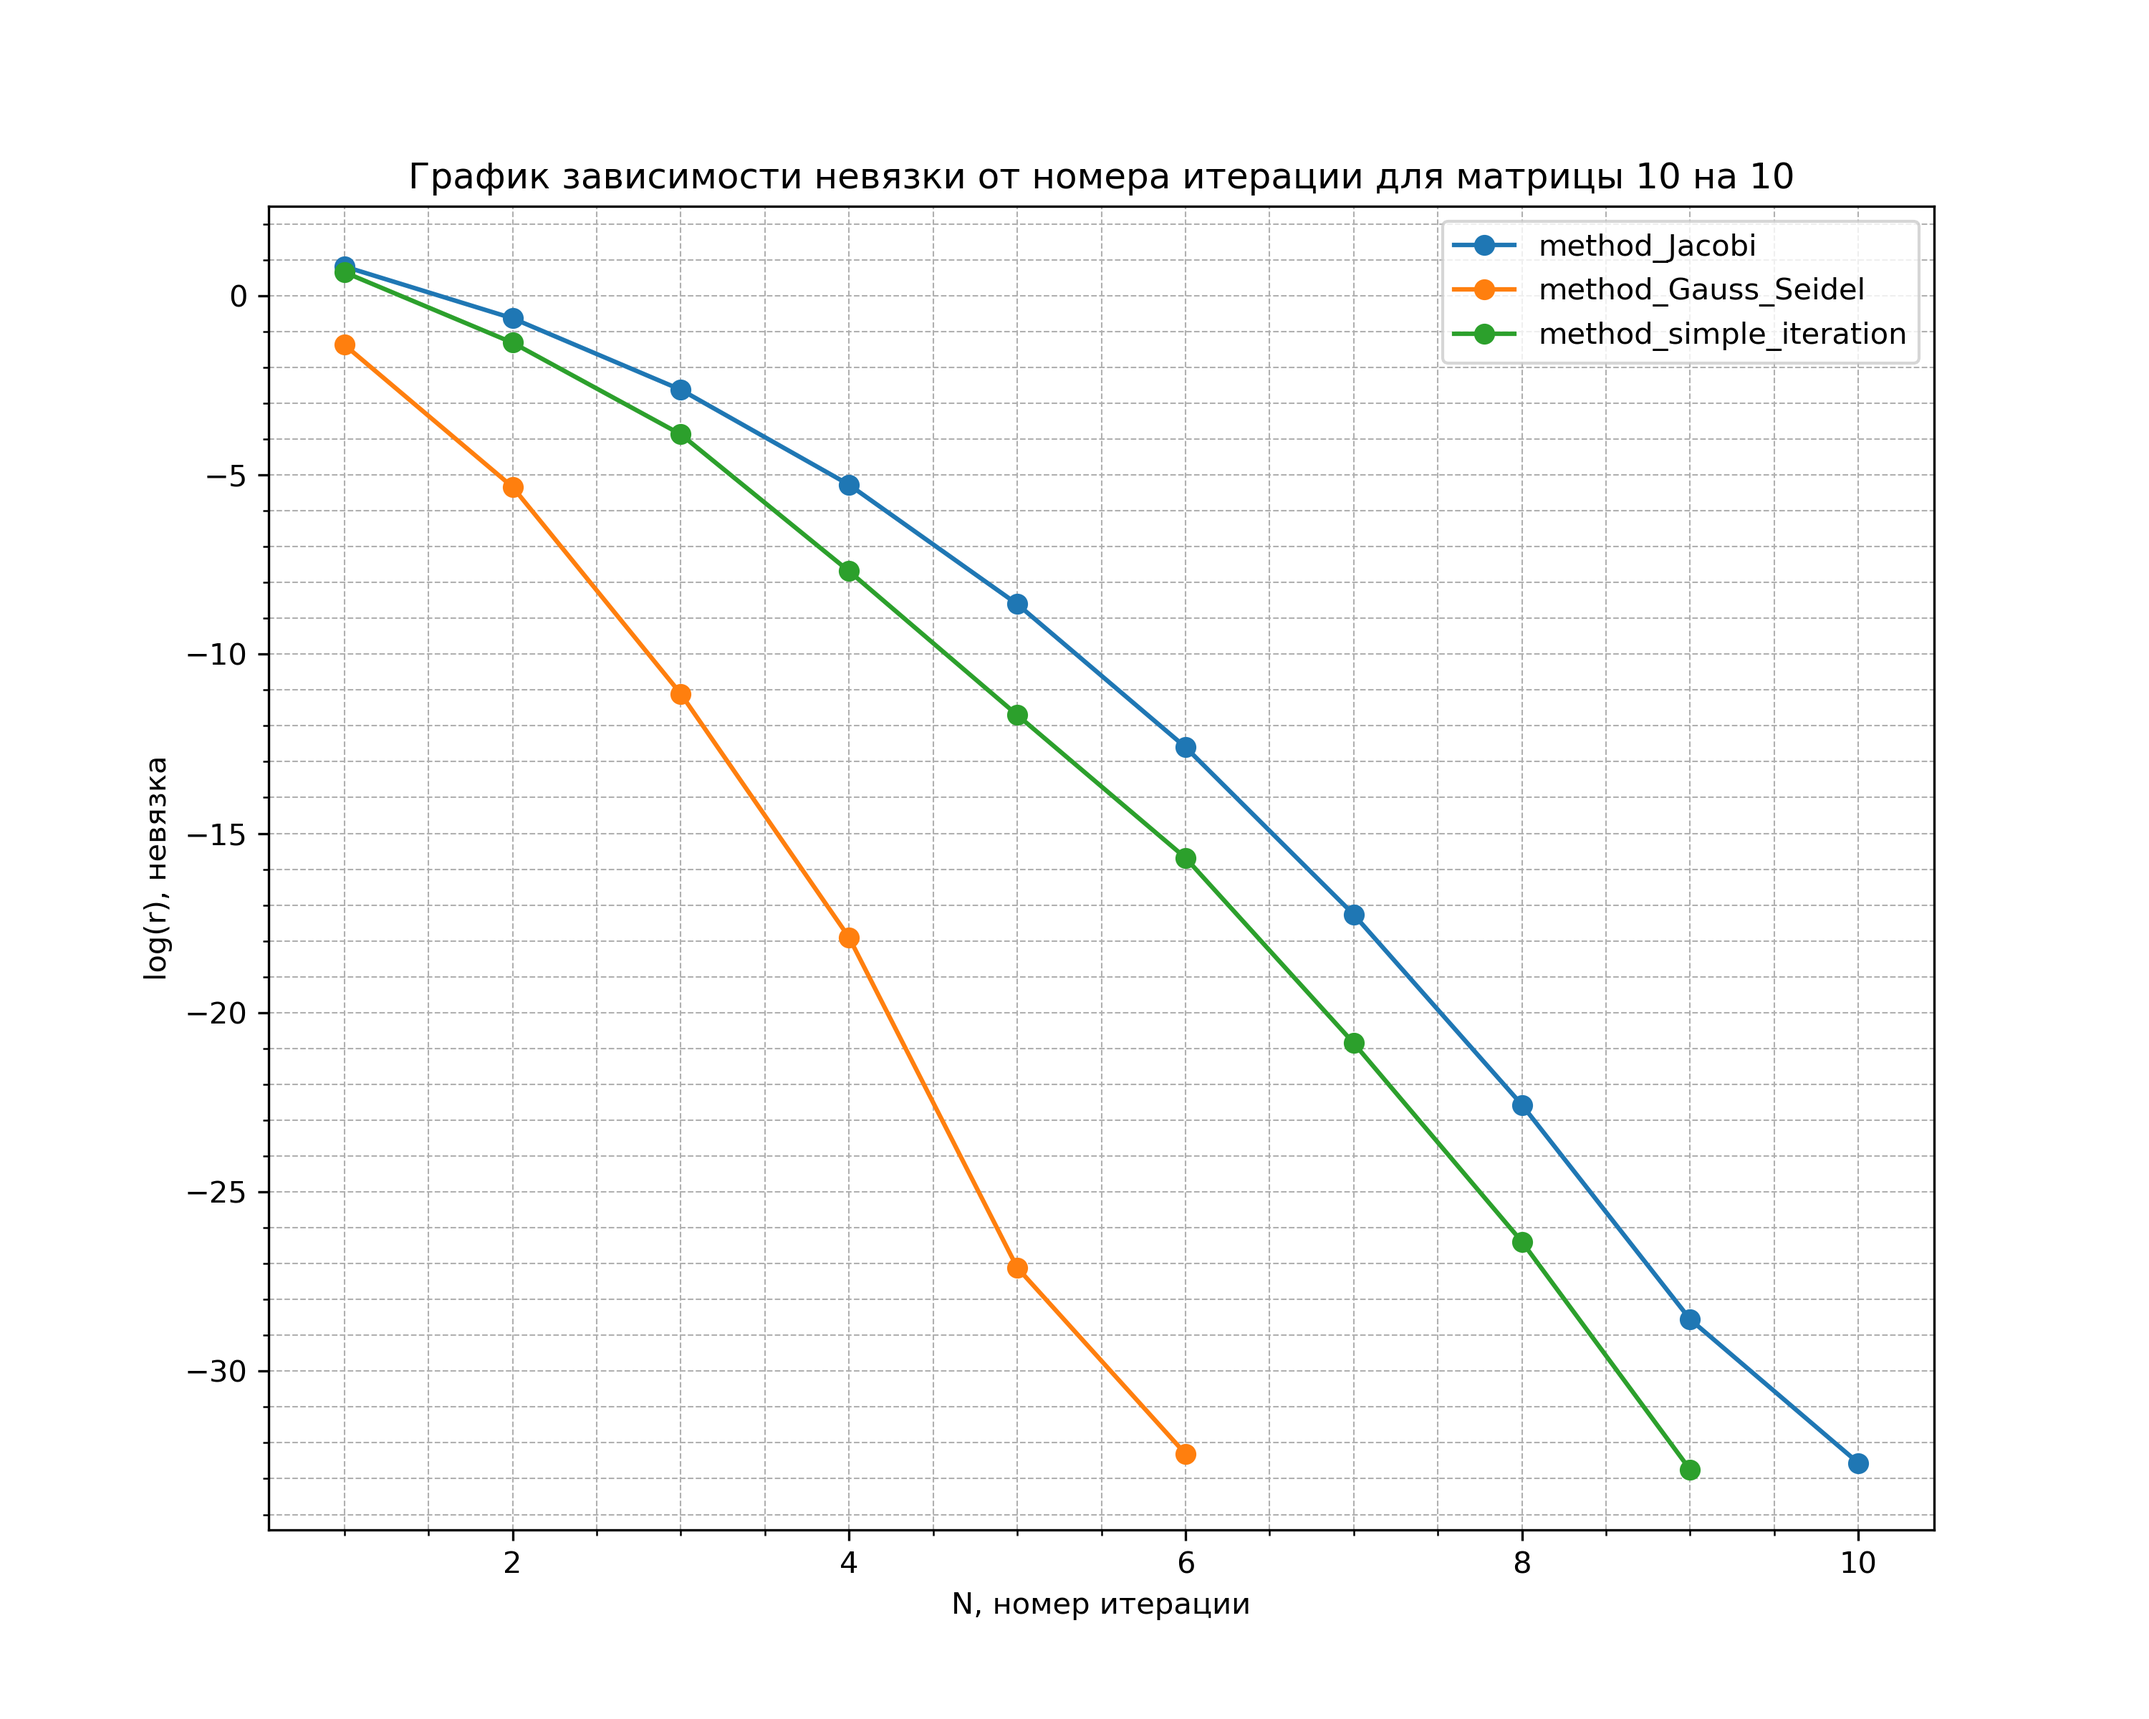
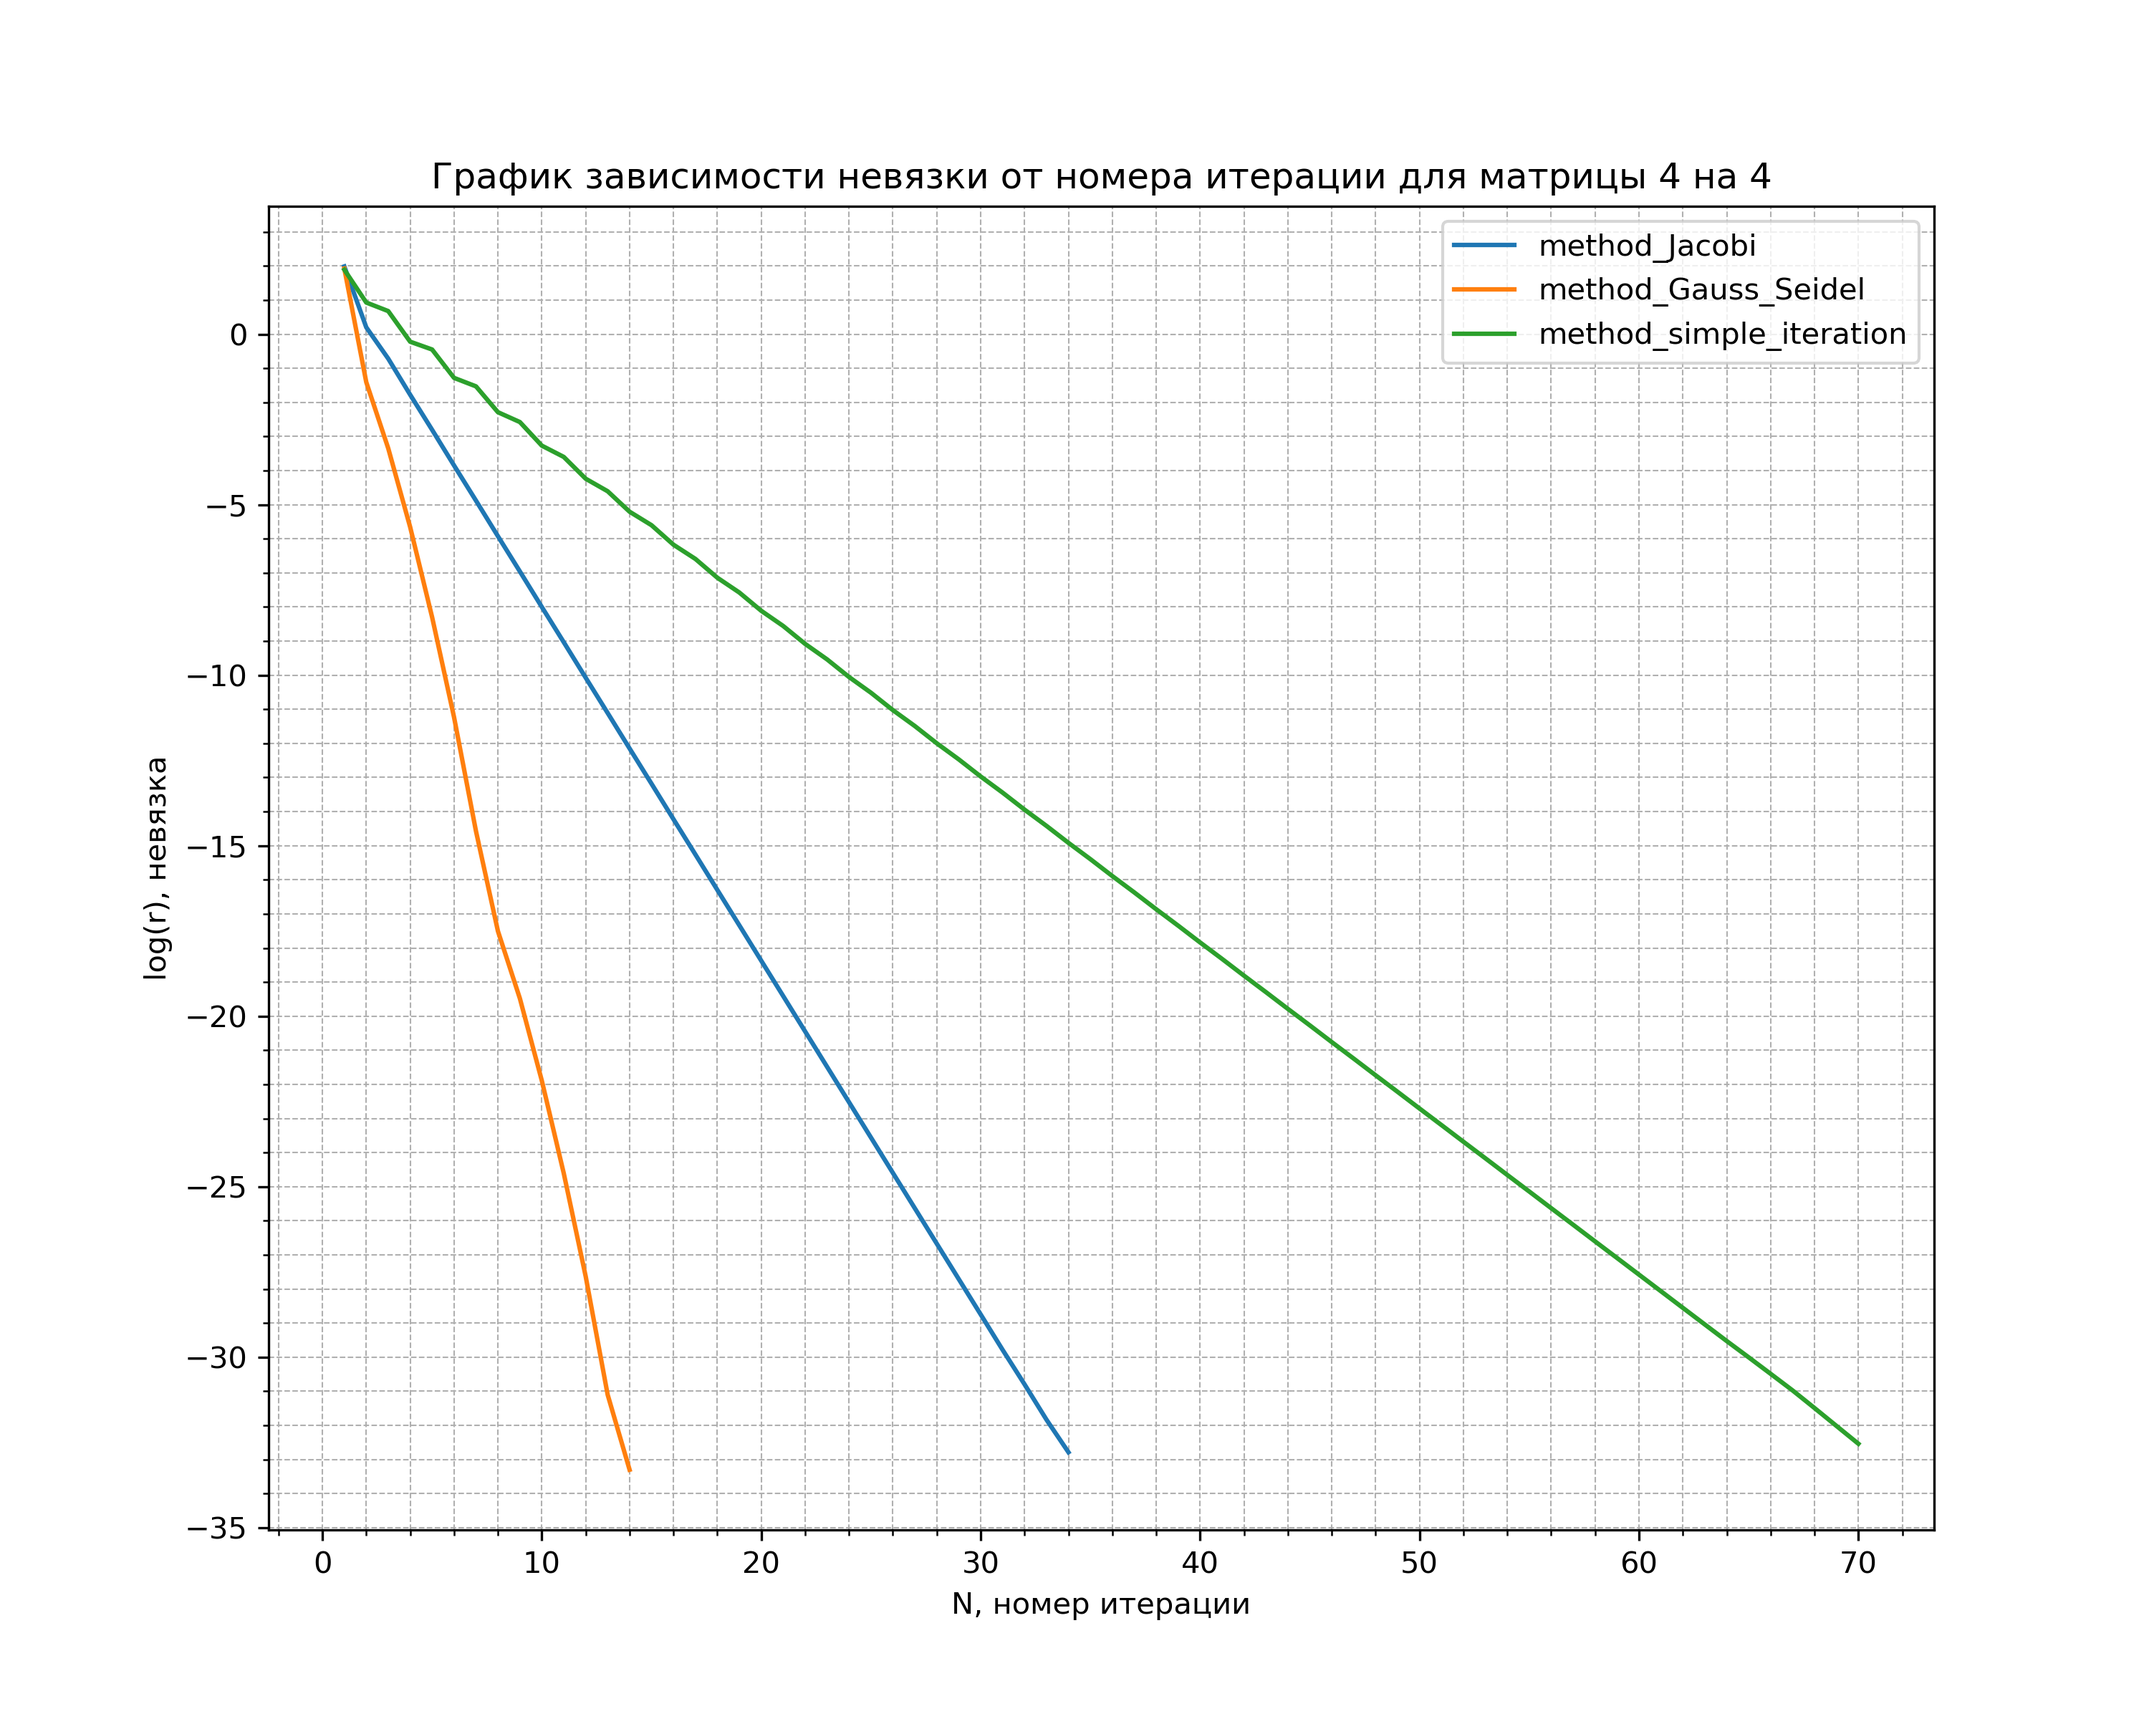
quick_mpi

diff --git a/time_measure/compare_iteration_method.cpp b/time_measure/compare_iteration_method.cpp
@@ -4,49 +4,36 @@
 #include <solution_SLAE/method_Gauss_Seidel.h>
 #include <solution_SLAE/method_Jacobi.h>
 #include <solution_SLAE/method_simple_iteration.h>
+#include <solution_SLAE/method_quick_simple_iteration.h>
+#include "algorithms/lamda_max.h"
+#include "algorithms/get_polynom_roots.h"
+#include "algorithms/permutation.h"
 
 int main() {
     std::map<std::array<std::size_t, 2>, double> DOK;
 
-    DOK[{0, 0}] = 10.0;
-    DOK[{1, 1}] = 9.0;
-    DOK[{1, 2}] = 1.0;
-    DOK[{2, 1}] = 2.0;
-    DOK[{2, 2}] = 8.0;
-    DOK[{2, 9}] = 3.0;
-    DOK[{3, 0}] = 1.0;
-    DOK[{3, 3}] = 7.0;
-    DOK[{4, 2}] = 3.0;
-    DOK[{4, 4}] = 12.0;
-    DOK[{4, 7}] = 4.0;
-    DOK[{5, 1}] = 5.0;
-    DOK[{5, 5}] = 11.0;
-    DOK[{6, 2}] = 6.0;
-    DOK[{6, 6}] = 15.0;
-    DOK[{7, 3}] = 1.0;
-    DOK[{7, 4}] = 2.0;
-    DOK[{7, 7}] = 14.0;
-    DOK[{8, 0}] = 4.0;
-    DOK[{8, 2}] = 5.0;
-    DOK[{8, 3}] = 3.0;
-    DOK[{8, 8}] = 13.0;
-    DOK[{9, 1}] = 6.0;
-    DOK[{9, 4}] = 1.0;
-    DOK[{9, 6}] = 2.0;
-    DOK[{9, 8}] = 3.0;
-    DOK[{9, 9}] = 9.0;
+    DOK[{0, 0}] = 28.0;
+    DOK[{1, 1}] = 10.0;
+    DOK[{2, 2}] = 26.0;
+    DOK[{0, 1}] = 12.0;
+    DOK[{1, 0}] = 2.0;
+    DOK[{2, 0}] = 10.0;
+    DOK[{0, 2}] = 2.0;
+    DOK[{3, 3}] = 10.0;
+    DOK[{3, 0}] = 2.0;
+    DOK[{2, 3}] = 8.0;
 
-    const CSR_matrix<double> A{DOK, 10, 10};
-    const Vector<double> b{{1., 1., 1., 1., 1., 1., 1., 1., 1., 1.}, 10};
+    const CSR_matrix<double> A{DOK, 4, 4};
+    const Vector<double> b{{1., 2., 4., 8.}, 4};
     const double eps = 10e-15;
 
     std::ofstream data_measure_Jacobi("data_measure_Jacobi.csv");
     data_measure_Jacobi << "n_iterate" << "," << "nevyzka" << '\n';
-    Vector<double> res{10};
+    Vector<double> res{4};
     std::size_t count = 1;
 
     while (!cond_stop(A, b, res, eps)) {
-        res = method_Jacobi(A, b, res, count, eps);
+        res = method_Jacobi(A, b, res, 1, eps);
         data_measure_Jacobi << count << "," << (A * res - b).norm() << '\n';
         count += 1;
     }
@@ -57,7 +44,7 @@ int main() {
     count = 1;
 
     while (!cond_stop(A, b, res, eps)) {
-        res = method_Gauss_Seidel(A, b, res, count, eps);
+        res = method_Gauss_Seidel(A, b, res, 1, eps);
         data_measure_Gauss_Seidel << count << "," << (A * res - b).norm() << '\n';
         count += 1;
     }
@@ -66,11 +53,32 @@ int main() {
     data_measure_simple_iteration << "n_iterate" << "," << "nevyzka" << '\n';
     res.clean();
     count = 1;
-    const double t = 2. / 23;
+    const double lamd_min = 8.77427527658846;
+    const double lamd_max = lamda_max(A, b, eps);
+    const double t = 2. / (lamd_max + lamd_min);
 
     while (!cond_stop(A, b, res, eps)) {
-        res = method_simple_iteration(A, b, res, t, count, eps);
+        res = method_simple_iteration(A, b, res, t, 1, eps);
         data_measure_simple_iteration << count << "," << (A * res - b).norm() << '\n';
         count += 1;
+    }
+
+    std::ofstream data_measure_quick_simple_iteration("data_measure_quick_simple_iteration.csv");
+    data_measure_quick_simple_iteration << "n_iterate" << "," << "nevyzka" << '\n';
+    res.clean();
+    const std::size_t n = 64;
+
+    const Vector<double> t_{get_polynom_roots<double>(n, (lamd_max - lamd_min) / 2, (lamd_max + lamd_min) / 2)};
+    const Vector<std::size_t> perm = permutation(Vector<size_t>{{0, 1}, 2}, n);
+
+    Vector<double> x_i{res};
+    std::size_t n_iter{};
+    while (!cond_stop(A, b, x_i, eps) && n_iter < 1000) {
+        for (std::size_t i = 0; i < n; ++i) {
+            x_i = x_i - t_(perm(i)) * (A * x_i - b);
+            n_iter += 1;
+            data_measure_quick_simple_iteration << n_iter << "," << (A * x_i - b).norm() << '\n';
+            if(cond_stop(A, b, x_i, eps)){n_iter+=1000; break;}
+        }
     }
 }

diff --git a/tests/test_method_quick_simple_iteration.cpp b/tests/test_method_quick_simple_iteration.cpp
@@ -1,8 +1,29 @@
 #include <gtest/gtest.h>
-#include <solution_SLAE/method_simple_iteration.h>
+#include "solution_SLAE/method_quick_simple_iteration.h"
 #include "algorithms/lamda_max.h"
+#include "algorithms/get_polynom_roots.h"
+#include "algorithms/permutation.h"
 
-TEST(method_simple_iteration, method_simple_iteration_1) {
+TEST(method_quick_simple_iteration, lamda_max) {
+    std::map<std::array<std::size_t, 2>, double> DOK;
+
+    DOK[{0, 0}] = 1.0;
+    DOK[{0, 1}] = 2.0;
+    DOK[{1, 0}] = 4.0;
+    DOK[{1, 1}] = 5.0;
+    DOK[{1, 2}] = 6.0;
+    DOK[{2, 2}] = 9.0;
+
+
+    const CSR_matrix<double> matrix_1{DOK, 3, 3};
+    const Vector<double> r_0{{1., 1., 1.}, 3};
+    const double eps = 10e-15;
+    const double lamd_max = lamda_max(matrix_1, r_0, eps);
+
+    ASSERT_NEAR(lamd_max, 9, 10e-14);
+}
+
+TEST(method_quick_simple_iteration, method_quick_simple_iteration_1) {
     std::map<std::array<std::size_t, 2>, double> DOK;
 
     DOK[{0, 0}] = 28.0;
@@ -16,10 +37,13 @@ TEST(method_simple_iteration, method_simple_iteration_1) {
     const Vector<double> b{{1., 2., 4., 8.}, 4};
     const Vector<double> x_0{4};
     const double eps = 10e-15;
+    const std::size_t n = 64;
     const double lamd_min = 2.;
     const double lamd_max = lamda_max(matrix_1, b, eps);
+    const Vector<double> t{get_polynom_roots<double>(n, (lamd_max - lamd_min) / 2, (lamd_max + lamd_min) / 2)};
+    const Vector<std::size_t> perm = permutation(Vector<size_t>{{0, 1}, 2}, n);
 
-    const Vector<double> res = method_simple_iteration(matrix_1, b, x_0, 2. / (lamd_max + lamd_min),1000, eps);
+    const Vector<double> res = method_quick_simple_iteration(matrix_1, b, x_0, t, perm, n, 1000, eps);
     const Vector<double> exp{{-7. / 128, 27. / 128, 2. / 3, 4.}, 4};
 
     for (std::size_t i = 0; i < 3; ++i) {
@@ -27,7 +51,7 @@ TEST(method_simple_iteration, method_simple_iteration_1) {
     }
 }
 
-TEST(method_simple_iteration, method_simple_iteration_2) {
+TEST(method_quick_simple_iteration, method_quick_simple_iteration_2) {
     std::map<std::array<std::size_t, 2>, double> DOK;
 
     DOK[{0, 0}] = 10.0;
@@ -62,6 +86,12 @@ TEST(method_simple_iteration, method_simple_iteration_2) {
     const Vector<double> b{{1., 1., 1., 1., 1., 1., 1., 1., 1., 1.}, 10};
     const Vector<double> x_0{10};
     const double eps = 10e-15;
+    const std::size_t n = 128;
+    const double lamd_min = 6.438447187191168;
+    const double lamd_max = lamda_max(matrix_1, b, eps);
+    const Vector<double> t{get_polynom_roots<double>(n, (lamd_max - lamd_min) / 2, (lamd_max + lamd_min) / 2)};
+    const Vector<std::size_t> perm = permutation(Vector<size_t>{{0, 1}, 2}, n);
 
-    const Vector<double> res = method_simple_iteration(matrix_1, b, x_0, 2. / 23, 1000, eps);
+    const Vector<double> res = method_quick_simple_iteration(matrix_1, b, x_0, t, perm, n, 1000, eps);
+
 }

diff --git a/src/solution_SLAE/method_Jacobi.h b/src/solution_SLAE/method_Jacobi.h
@@ -5,9 +5,9 @@
 #include <algorithms/stop_cond.h>
 
 template<typename T>
-Vector<T> method_Jacobi(const CSR_matrix<T> &A, const Vector<T> &b, const Vector<T> &x_0,  const std::size_t N_iter, const T eps) {
+Vector<T> method_Jacobi(const CSR_matrix<T> &A, const Vector<T> &b, const Vector<T> &x_0, const std::size_t N_iter,
+                        const T eps) {
     Vector<T> x_i{x_0};
-    Vector<T> x_i_next{b.N()};
     std::size_t n_iter{};
     T d_ii{};
     while (!cond_stop(A, b, x_i, eps) && n_iter < N_iter) {
@@ -15,12 +15,10 @@ Vector<T> method_Jacobi(const CSR_matrix<T> &A, const Vector<T> &b, const Vector
             const std::size_t k_start = A.rows(i);
             const std::size_t k_end = A.rows(i + 1);
             for (std::size_t k = k_start; k < k_end; ++k) {
-                if (A.cols(k) != i) { x_i_next(i) += A.values(k) * x_i(A.cols(k)); } else { d_ii = A.values(k); }
+                if (A.cols(k) != i) { x_i(i) += A.values(k) * x_i(A.cols(k)); } else { d_ii = A.values(k); }
             }
-            x_i_next(i) = (b(i) - x_i_next(i)) / d_ii;
+            x_i(i) = (b(i) - x_i(i)) / d_ii;
         }
-        x_i = x_i_next;
-        x_i_next.clean();
         n_iter += 1;
     }
     return x_i;

diff --git a/src/solution_SLAE/method_quick_simple_iteration.h b/src/solution_SLAE/method_quick_simple_iteration.h
@@ -1,0 +1,25 @@
+#ifndef SOLUTION_SLAE_METHOD_QUICK_SIMPLE_ITERATION_H
+#define SOLUTION_SLAE_METHOD_QUICK_SIMPLE_ITERATION_H
+#include "primitives/vector_from_vector.h"
+#include "primitives/CSR_matrix.h"
+#include "algorithms/stop_cond.h"
+
+template<typename T>
+Vector<T> method_quick_simple_iteration(const CSR_matrix<T> &A, const Vector<T> &b, const Vector<T> &x_0,
+                                        const Vector<T> &t,
+                                        const Vector<std::size_t> &perm,
+                                        const std::size_t n,
+                                        const std::size_t N_iter,
+                                        const T eps) {
+    Vector<T> x_i{x_0};
+    std::size_t n_iter{};
+    while (!cond_stop(A, b, x_i, eps) && n_iter < N_iter) {
+        for (std::size_t i = 0; i < n; ++i) {
+            x_i = x_i - t(perm(i)) * (A * x_i - b);
+        }
+        n_iter += n;
+    }
+    return x_i;
+}
+
+#endif //SOLUTION_SLAE_METHOD_QUICK_SIMPLE_ITERATION_H

diff --git a/src/algorithms/get_polynom_roots.h b/src/algorithms/get_polynom_roots.h
@@ -1,0 +1,20 @@
+#ifndef ALGORITHMS_GET_POLYNOM_ROOTS_H
+#define ALGORITHMS_GET_POLYNOM_ROOTS_H
+
+template<typename T>
+Vector<T> get_polynom_roots(const std::size_t n, const T k, const T b) {
+    Vector<T> t{n};
+    Vector<T> res{n};
+    const T cos_pi_2n = cos(M_PI / 2 / n);
+    const T sin_pi_2n = sqrt(1 - cos_pi_2n * cos_pi_2n);
+    const T cos_pi_n = 2 * cos_pi_2n * cos_pi_2n - 1;
+    const T sin_pi_n = sqrt(1 - cos_pi_n * cos_pi_n);
+    t(0) = cos_pi_2n * cos_pi_n - sin_pi_2n * sin_pi_n;
+    for (std::size_t i = 1; i < n; ++i) {
+        t(i) = t(i - 1) * cos_pi_n - sqrt(1 - t(i - 1) * t(i - 1)) * sin_pi_n;
+    }
+    for (std::size_t i = 0; i < n; ++i) {res(i) = 1 / (k*t(i) + b);}
+    return res;
+}
+
+#endif //ALGORITHMS_GET_POLYNOM_ROOTS_H

diff --git a/src/algorithms/lamda_max.h b/src/algorithms/lamda_max.h
@@ -1,0 +1,22 @@
+#ifndef ALGORITHMS_LAMDA_MAX_H
+#define ALGORITHMS_LAMDA_MAX_H
+
+template<typename T>
+T lamda_max(const CSR_matrix<T> &A, const Vector<T> &r_0, const T eps) {
+    T mu_i_next = dot(r_0, A * r_0) / dot(r_0, r_0);
+    T mu_i{};
+    Vector<T> r_i_next{r_0};
+    Vector<T> r_i{r_0.N()};
+
+    while (abs(mu_i - mu_i_next) > eps) {
+        mu_i = mu_i_next;
+        r_i = r_i_next;
+
+        r_i_next = A * r_i;
+        r_i_next = r_i_next * (1 / (A * r_i).norm());
+        mu_i_next = dot(r_i_next, A * r_i_next) / dot(r_i_next, r_i_next);
+    }
+    return mu_i_next;
+}
+
+#endif //ALGORITHMS_LAMDA_MAX_H

diff --git a/src/solution_SLAE/method_simple_iteration.h b/src/solution_SLAE/method_simple_iteration.h
@@ -9,12 +9,9 @@ Vector<T> method_simple_iteration(const CSR_matrix<T> &A, const Vector<T> &b, co
                                   const std::size_t N_iter,
                                   const T eps) {
     Vector<T> x_i{x_0};
-    Vector<T> x_i_next{b.N()};
     std::size_t n_iter{};
     while (!cond_stop(A, b, x_i, eps) && n_iter < N_iter) {
-        x_i_next = x_i - t * (A * x_i - b);
-        x_i = x_i_next;
-        x_i_next.clean();
+        x_i = x_i - t * (A * x_i - b);
         n_iter += 1;
     }
     return x_i;

diff --git a/src/algorithms/permutation.h b/src/algorithms/permutation.h
@@ -1,0 +1,15 @@
+#ifndef ALGORITHMS_PERMUTATION_H
+#define ALGORITHMS_PERMUTATION_H
+
+Vector<std::size_t> permutation(const Vector<std::size_t> &c, const std::size_t n) {
+    if (c.N() == n) return c;
+    Vector<std::size_t> d{c.N() * 2};
+    for (std::size_t i = 0; i < d.N(); i += 2) {
+        d(i) = c(i / 2);
+        d(i + 1) = d.N() - d(i) - 1;
+    }
+    return permutation(d, n);
+}
+
+
+#endif //ALGORITHMS_PERMUTATION_H
